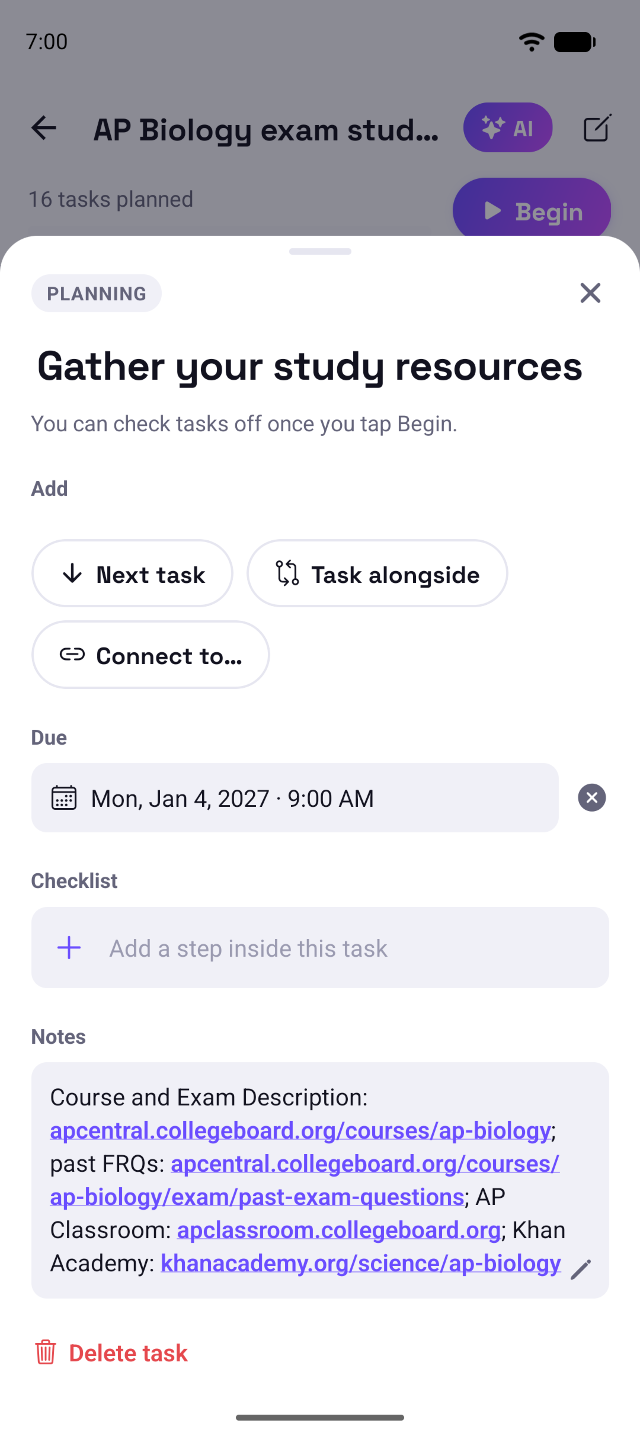
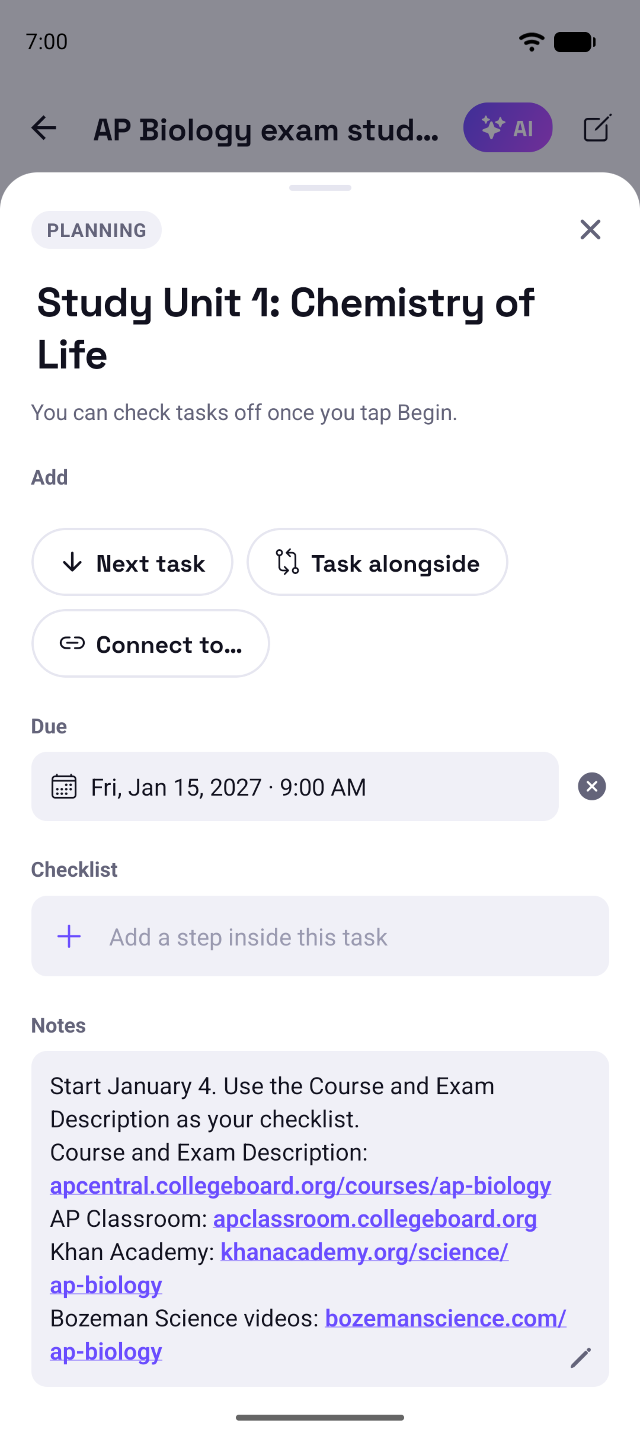
Describe it: AP Bio plan in three lanes, resources one per line in the note

diff --git a/index.html b/index.html
@@ -197,7 +197,7 @@
         <div class="describe__copy">
           <h2>Just say what you’re planning</h2>
           <p>Type it, or tap the mic and say it: “Create a study plan for the AP Biology exam on May 10, starting January 4, covering the College Board’s course units. Keep doing past free-response questions alongside the units, and review the labs too. Include links to past exam questions and any other useful resources.”</p>
-          <p>AI drafts the steps, what waits on what, and when each is due: the eight units in order through the spring, free-response practice after every two, the labs running alongside, and everything meeting at a timed practice exam two weeks out. The College Board and Khan Academy pages are linked right in the tasks, ready to tap.</p>
+          <p>AI drafts the steps, what waits on what, and when each is due: the eight units in order through the spring, with free-response practice and the labs running alongside, and all three meeting at a timed practice exam two weeks out. The College Board, Khan Academy and Bozeman Science pages are listed in the notes, one per line, ready to tap.</p>
           <p>It plans by the hour as well as the day. Try “Christmas dinner for 10, everything ready by 3pm” and every dish gets its own timed steps, from the turkey going in to carving, with handy notes like oven temperatures. Holidays such as Thanksgiving and Mother’s Day land on your country’s date.</p>
           <p>The draft opens on the map, ready to change. Nothing starts until you tap Begin.</p>
           <p class="describe__note">Part of Zayvori Premium, free for 14 days. Your description, today’s date and your phone’s country setting are sent to draft the steps; nothing else leaves your phone. <a href="privacy.html#describe-it">What’s sent</a>.</p>
@@ -205,11 +205,11 @@
         <div class="describe__shots">
           <div class="phone phone--shot phone--small">
             <img src="assets/screens/describe-map.png" width="640" height="1436" loading="lazy"
-              alt="The drafted AP Biology study plan on the map: units one after another, free-response practice branching off after every two, and both lanes meeting at a timed practice exam on April 25, then a review of weak areas." />
+              alt="The drafted AP Biology study plan on the map: from Start, three lanes side by side: the units one after another, past free-response practice, and reviewing the labs." />
           </div>
           <div class="phone phone--shot phone--small describe__second">
             <img src="assets/screens/describe-note.png" width="640" height="1436" loading="lazy"
-              alt="The first task, Gather your study resources, with tappable links in its notes to the AP Biology course page, past free-response questions, AP Classroom and Khan Academy." />
+              alt="The first unit, Study Unit 1: Chemistry of Life, with a tip and four tappable links in its notes, one per line: the Course and Exam Description, AP Classroom, Khan Academy and Bozeman Science videos." />
           </div>
         </div>
       </div>
